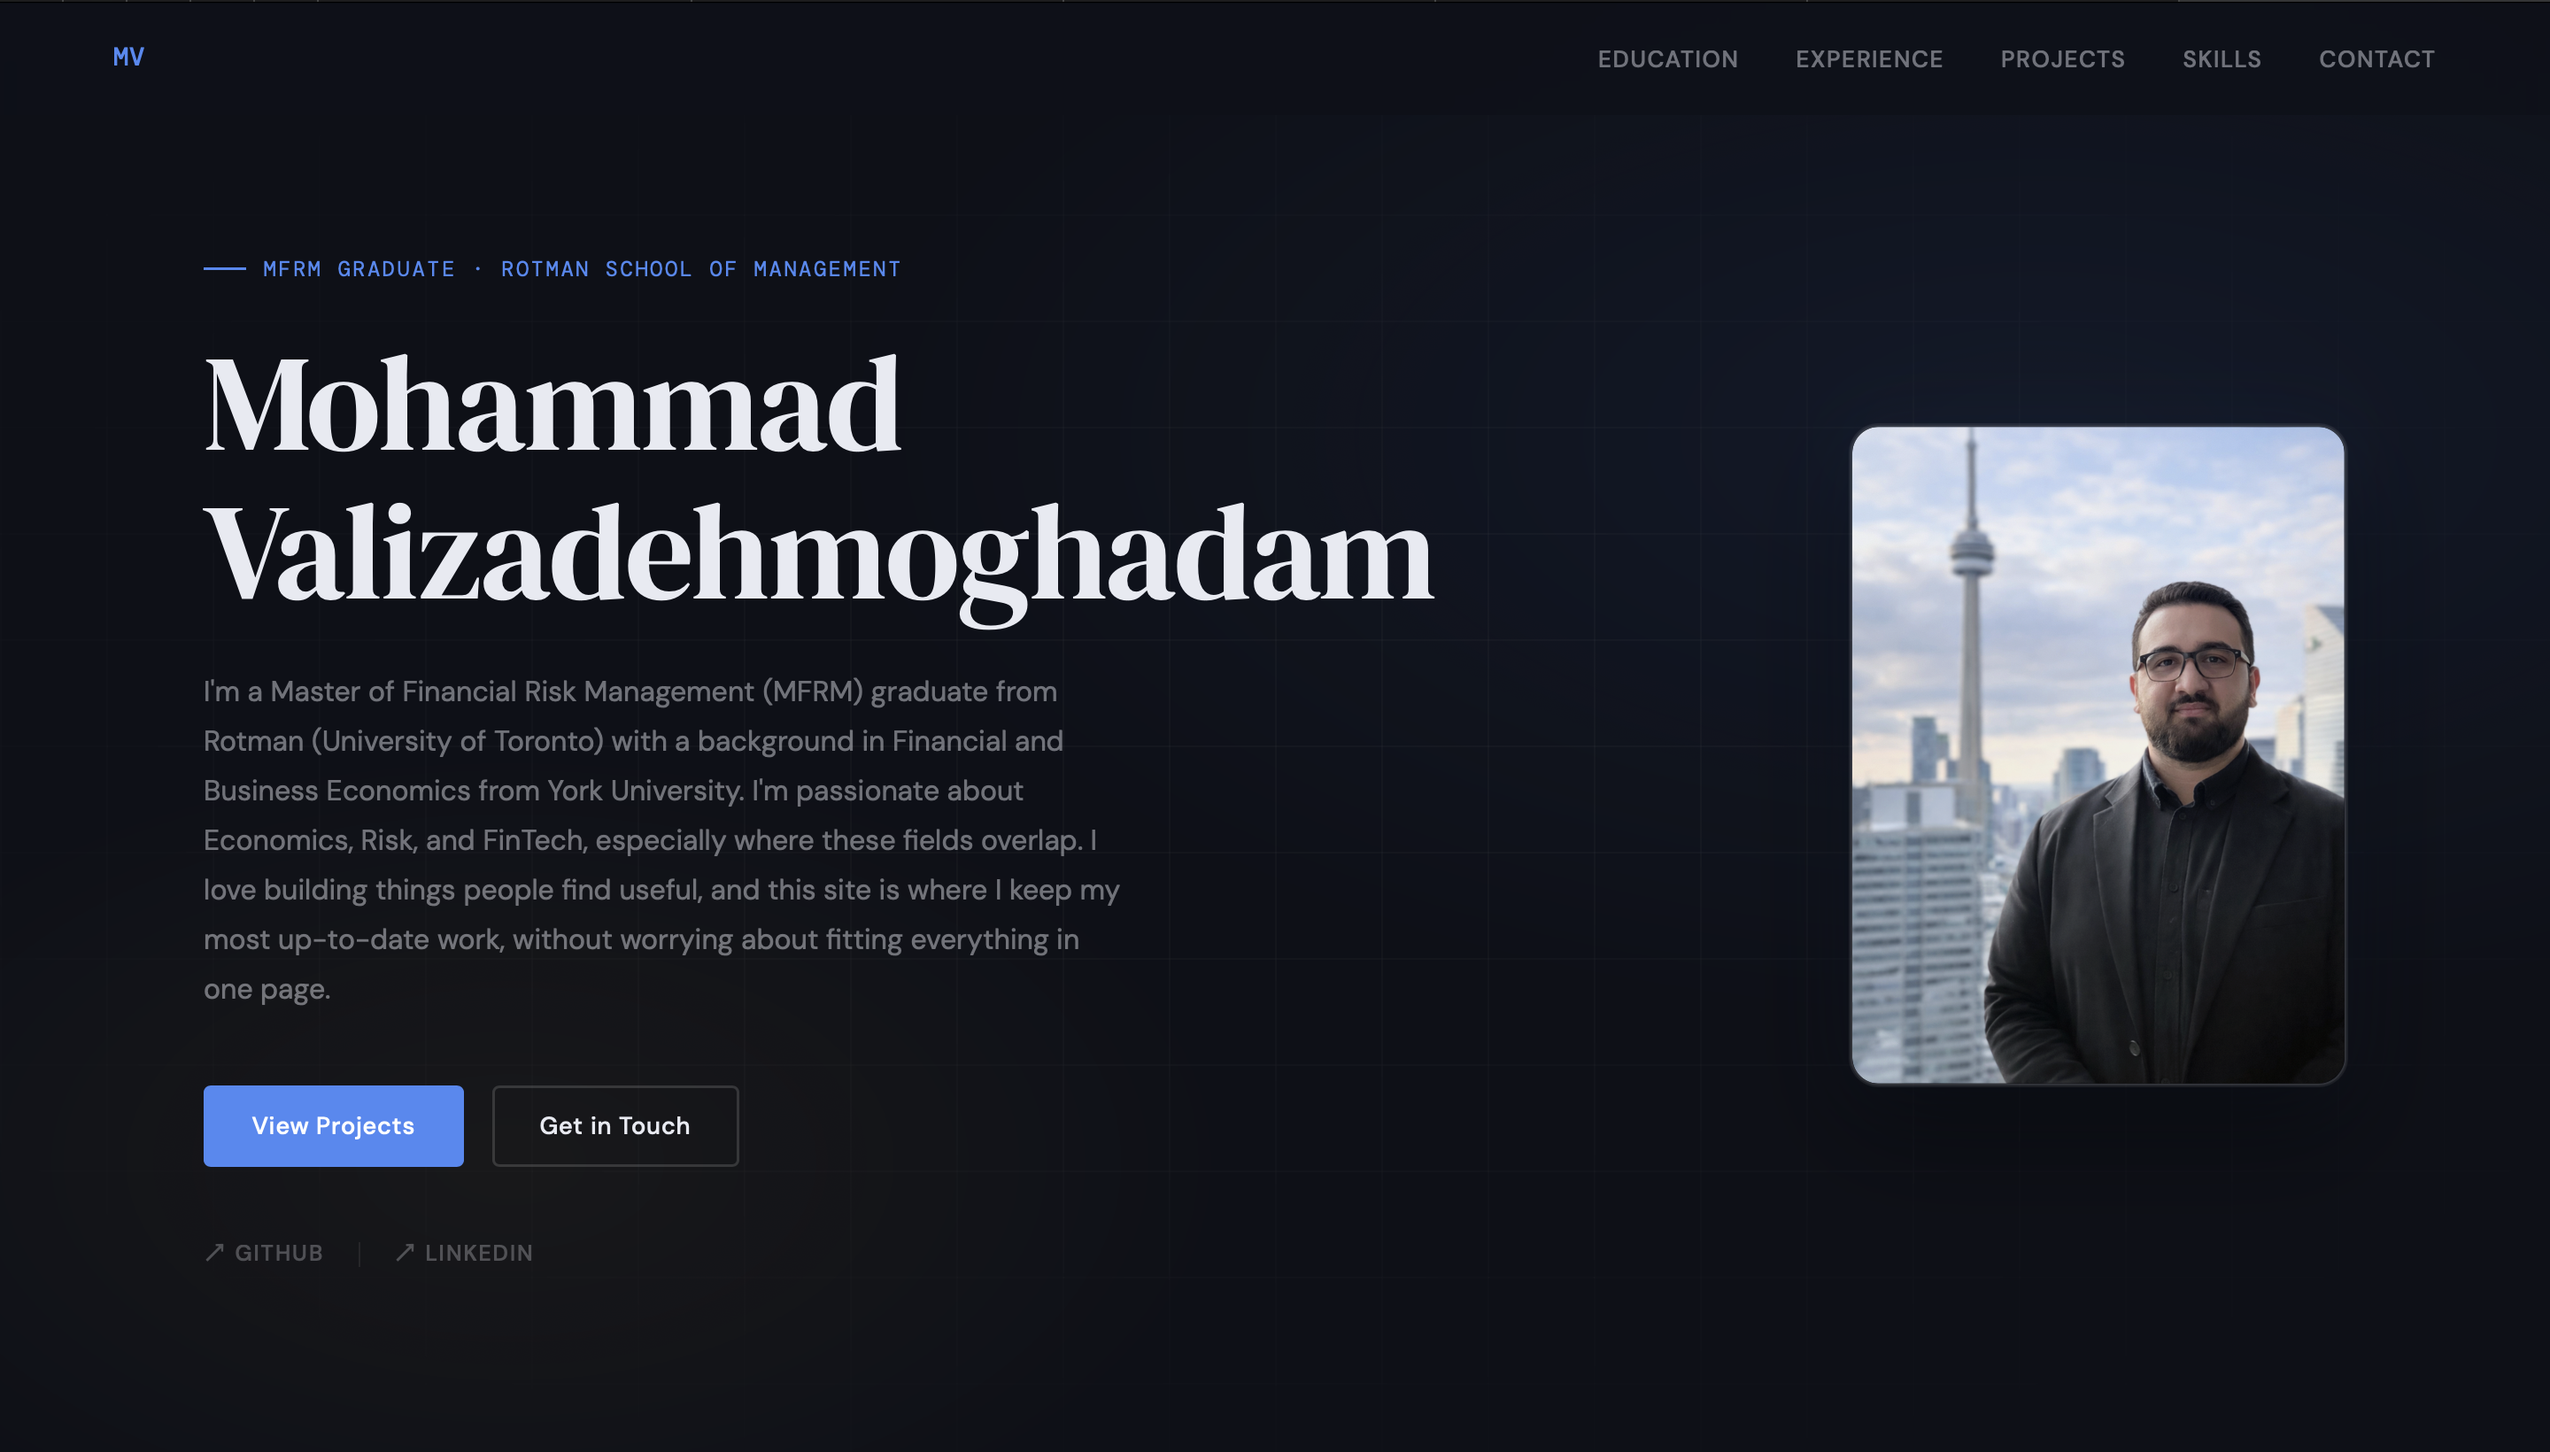
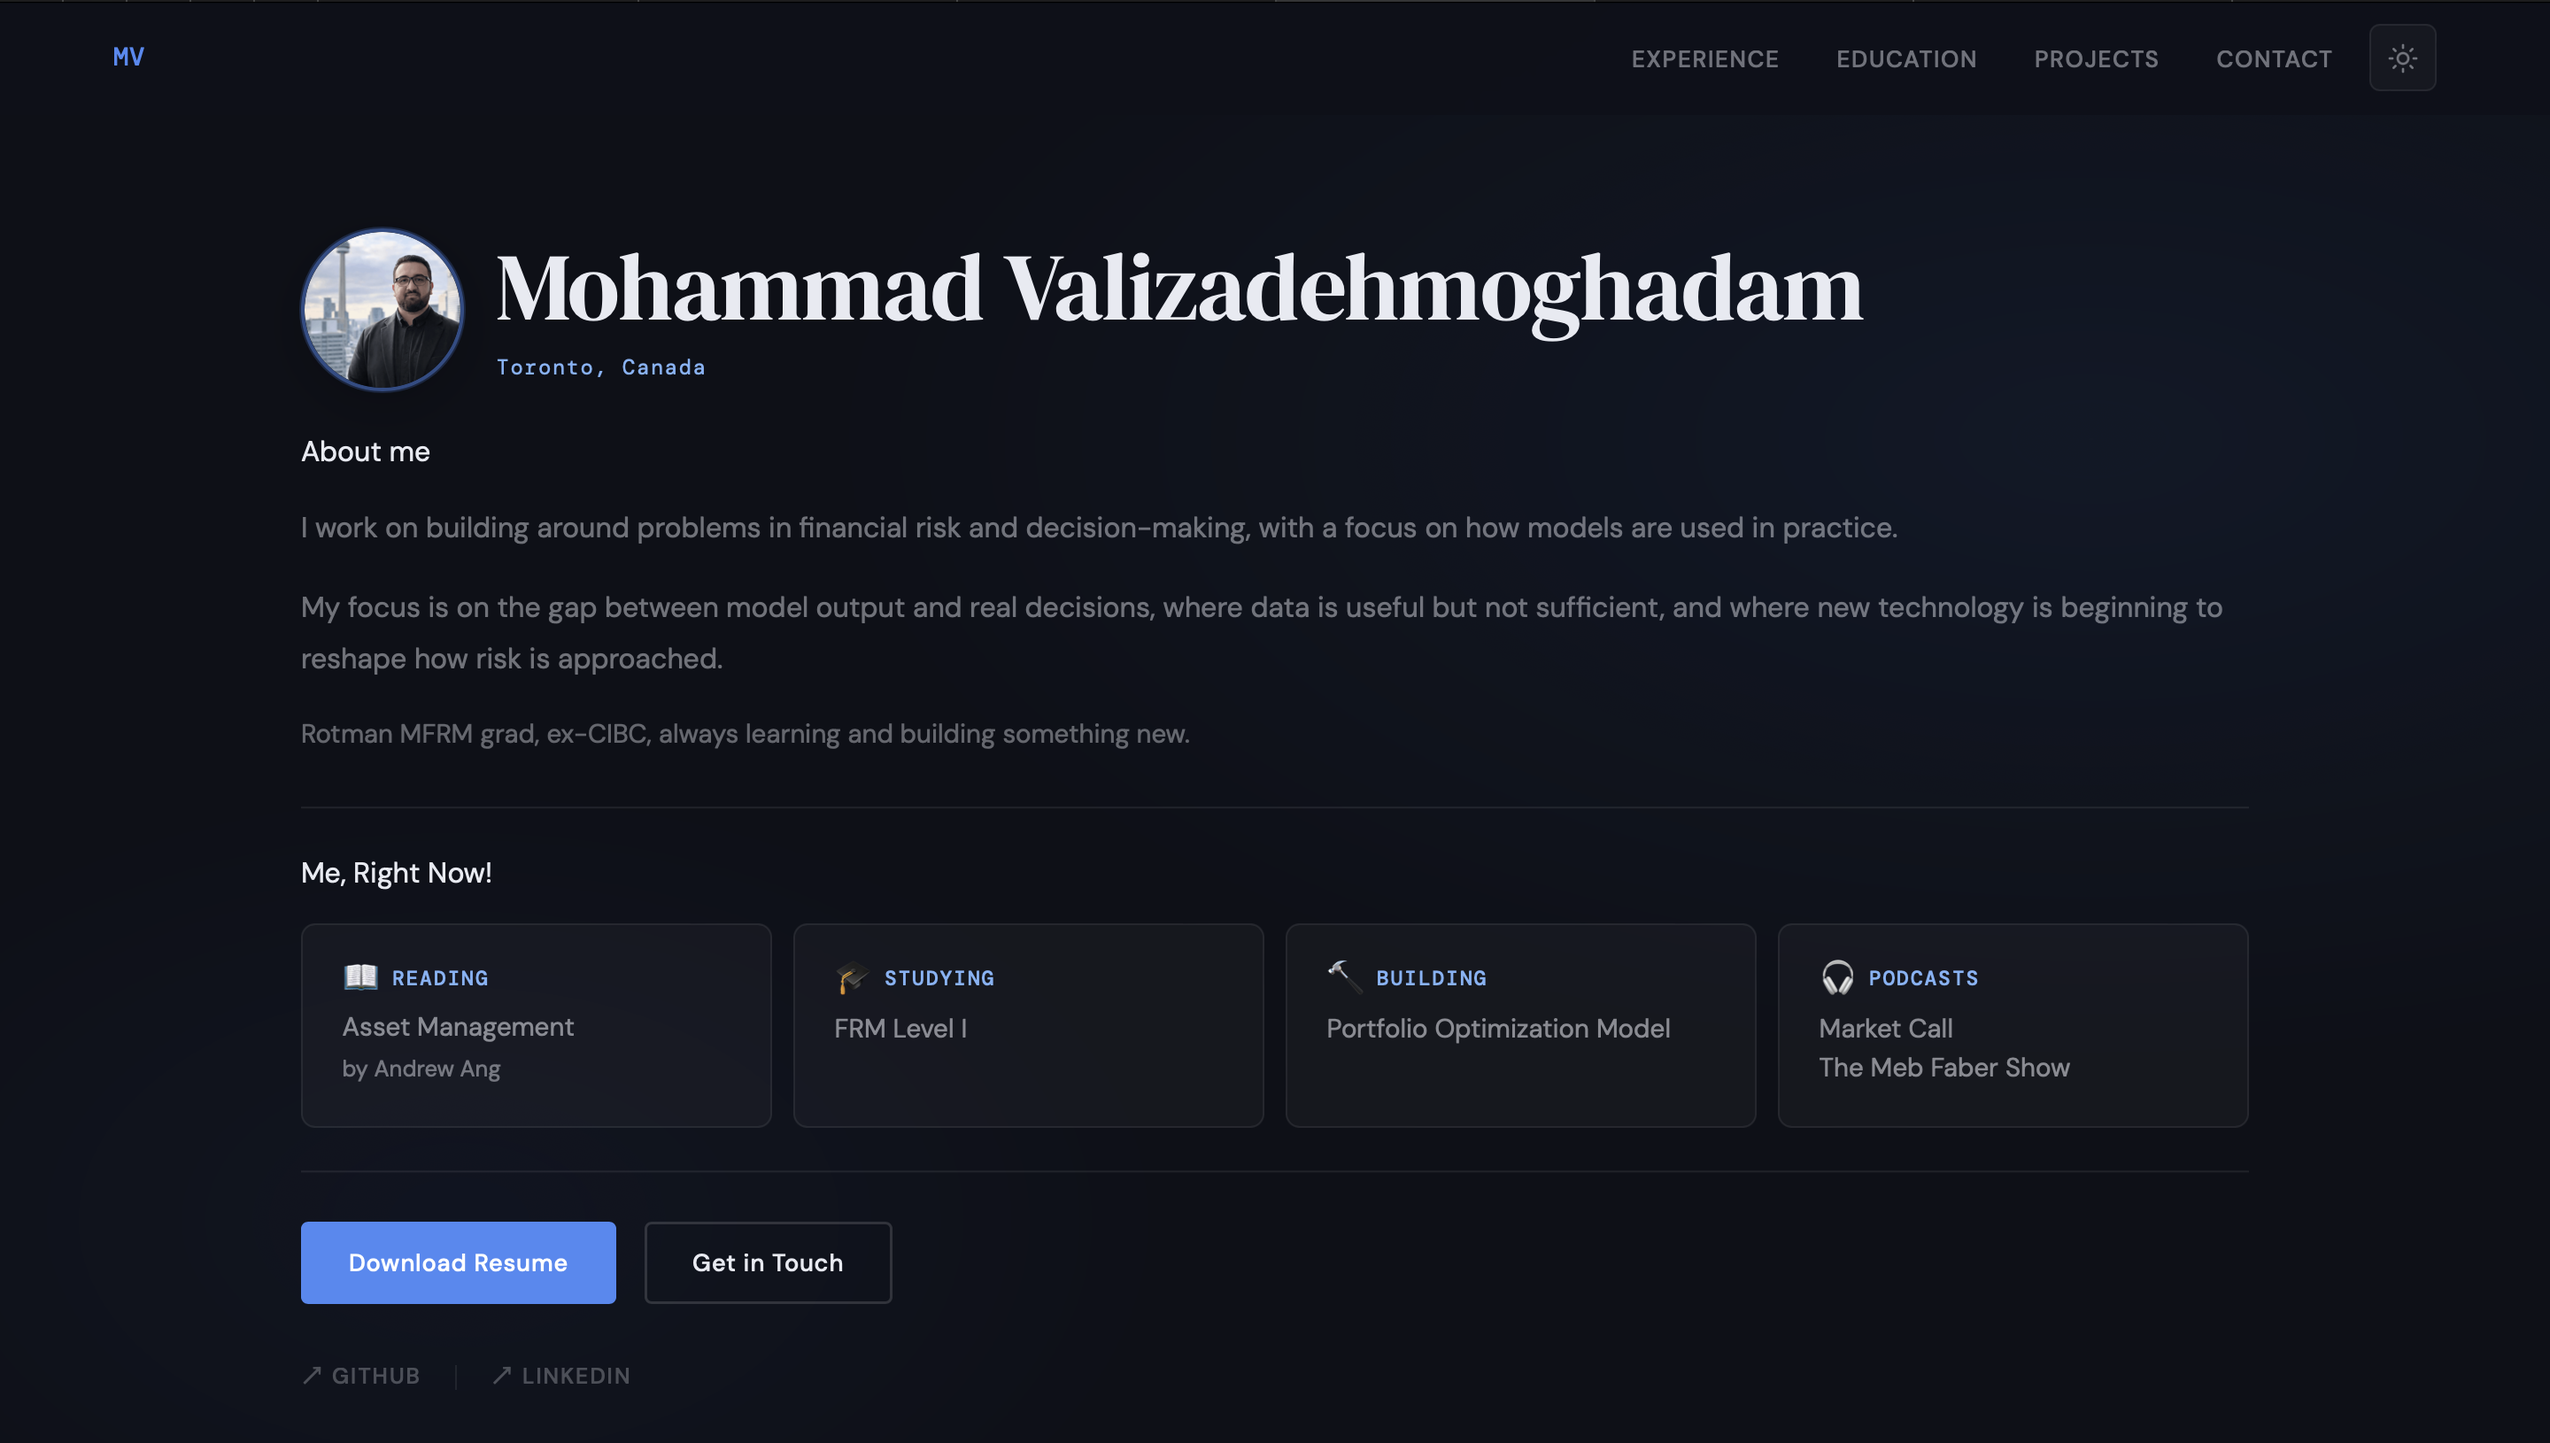
Readme update , light theme background updated to beige

diff --git a/style.css b/style.css
@@ -37,8 +37,9 @@
 
 [data-theme="light"] {
   color-scheme: light;
-  --dark-a: #f0f2f7;
-  --dark-card: #ffffff;
+  /* Warm paper-like neutrals (easier on the eyes than pure white / cool gray) */
+  --dark-a: #e8e4dc;
+  --dark-card: #f2efe8;
   --ink: #111827;
   --ink-dim: rgba(17,24,39,0.72);
   --ink-faint: rgba(17,24,39,0.38);
@@ -51,7 +52,7 @@
   --border-hover: rgba(17,24,39,0.2);
   --shadow: 0 4px 24px rgba(17,24,39,0.08);
   --shadow-hover: 0 16px 48px rgba(17,24,39,0.12);
-  --nav-bg: rgba(240,242,247,0.82);
+  --nav-bg: rgba(232, 228, 220, 0.88);
   --nav-border-scrolled: rgba(17,24,39,0.08);
   --hero-glow-1: rgba(47,111,224,0.11);
   --hero-glow-2: rgba(74,138,244,0.07);

diff --git a/index.html b/index.html
@@ -7,7 +7,7 @@
   <link rel="preconnect" href="https://fonts.googleapis.com">
   <link rel="preconnect" href="https://fonts.gstatic.com" crossorigin>
   <link href="https://fonts.googleapis.com/css2?family=Cormorant+Garamond:wght@300;400;500;600&family=DM+Sans:wght@300;400;500&family=DM+Mono:wght@400;500&family=DM+Serif+Display&display=swap" rel="stylesheet">
-  <link rel="stylesheet" href="style.css?v=23">
+  <link rel="stylesheet" href="style.css?v=24">
 </head>
 <body>
 

diff --git a/README.md b/README.md
@@ -1,30 +1,30 @@
 # Personal Website
 
-Live at: [thismv.github.io/Personal_Website.github.io](https://thismv.github.io/Personal_Website.github.io)
+Live at: **[thismv.github.io](https://thismv.github.io/)**
 
 ![Preview](./General%20docs/preview.png)
 
-My personal corner of the internet — a portfolio, a resume, and a place to share my work without the constraints of a single page. Built with HTML, CSS, and JavaScript, hosted on GitHub Pages.
+My personal corner of the internet — a portfolio, a resume, and a place to share my work without the constraints of a single page. Built with HTML, CSS, and JavaScript, hosted on GitHub Pages (user site from the `thismv.github.io` repository).
 
 First time building a website. AI (Claude & GPT) was involved throughout the process — from design to code to iteration. I use AI wherever it helps me build and understand things faster, and I'm not shy about it.
 
 ## Sections
-- **Hero** — intro and links
-- **Education** — academic background and certifications
+- **Hero** — intro, “Me, right now,” and links
 - **Experience** — professional timeline
-- **Projects** — selected analytical work
-- **Skills** — technical toolkit
-- **Contact** — reach out
+- **Education** — academic background and certifications
+- **Projects** — selected work (with filters) and **Skills** (same section, below the project cards)
+- **Contact** — intro copy and channel cards
 
 ## Files
 - `index.html` — page structure and content
-- `style.css` — all styling
+- `style.css` — all styling (including light / dark theme)
 - `General docs/` — `Resume.pdf`, `headshot.png`, `preview.png` (paths in `index.html` and this README point here)
+- `Projects docs/` — project thumbnail images (referenced from `index.html`)
 
-**Note:** The live site is a **project** GitHub Page at `…/Personal_Website.github.io/`, so asset URLs are resolved from that folder (e.g. `General%20docs/headshot.png` → `https://thismv.github.io/Personal_Website.github.io/General%20docs/headshot.png`).
+Asset example: `General%20docs/headshot.png` resolves to `https://thismv.github.io/General%20docs/headshot.png` on the live user site.
 
 ## Built With
 - HTML, CSS, Vanilla JavaScript
-- Fonts: Cormorant Garamond, DM Sans, DM Mono (Google Fonts)
+- Fonts: Cormorant Garamond, DM Sans, DM Mono, DM Serif Display (Google Fonts)
 - Hosted on GitHub Pages
 - Designed with AI assistance (Claude by Anthropic & ChatGPT by OpenAI)
